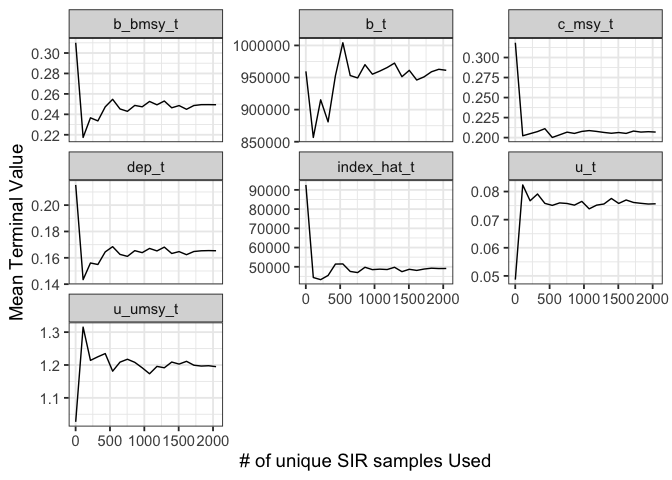
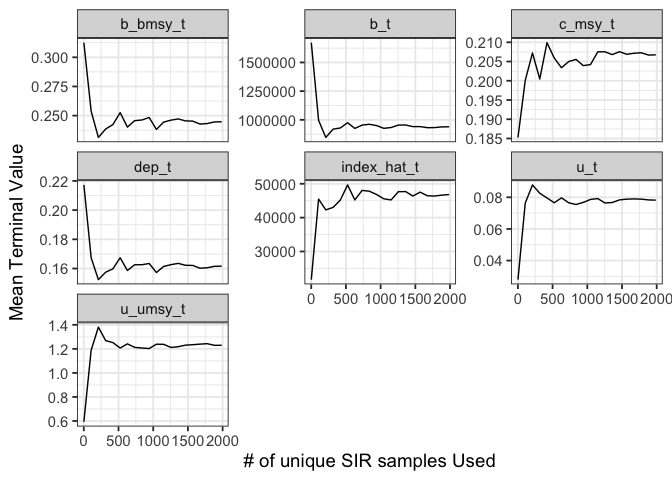
purging excess packages

diff --git a/docs/index.html b/docs/index.html
@@ -131,15 +131,10 @@
 <div class="section level1">
 <h1 id="example-use">Example Use<a class="anchor" aria-label="anchor" href="#example-use"></a>
 </h1>
-<p>First, load libraries. These are the core libraries needed to run <code>sraplus</code>, all of which should have been installed for you if you didn’t already have them when you installed <code>sraplus</code>.</p>
-<div class="sourceCode" id="cb4"><pre class="downlit sourceCode r">
-<code class="sourceCode R"><span class="kw"><a href="https://rdrr.io/r/base/library.html" class="external-link">library</a></span><span class="op">(</span><span class="va"><a href="https://ggplot2.tidyverse.org" class="external-link">ggplot2</a></span><span class="op">)</span>
-<span class="kw"><a href="https://rdrr.io/r/base/library.html" class="external-link">library</a></span><span class="op">(</span><span class="va"><a href="https://tidyr.tidyverse.org" class="external-link">tidyr</a></span><span class="op">)</span>
-<span class="kw"><a href="https://rdrr.io/r/base/library.html" class="external-link">library</a></span><span class="op">(</span><span class="va"><a href="https://dplyr.tidyverse.org" class="external-link">dplyr</a></span><span class="op">)</span>
-<span class="kw"><a href="https://rdrr.io/r/base/library.html" class="external-link">library</a></span><span class="op">(</span><span class="va"><a href="https://danovando.github.io/sraplus/" class="external-link">sraplus</a></span><span class="op">)</span>
-<span class="kw"><a href="https://rdrr.io/r/base/library.html" class="external-link">library</a></span><span class="op">(</span><span class="va">tmbstan</span><span class="op">)</span>
-<span class="fu"><a href="https://rdrr.io/r/base/Sys.setenv.html" class="external-link">Sys.unsetenv</a></span><span class="op">(</span><span class="st">"PKG_CXXFLAGS"</span><span class="op">)</span></code></pre></div>
 <p>Once you’ve successfully installed <code>sraplus</code> you can take for a test drive with these examples. We’ll now work through a couple examples, from simple to complex, of using <code>sraplus</code></p>
+<p>First, load <code>sraplus</code></p>
+<div class="sourceCode" id="cb4"><pre class="downlit sourceCode r">
+<code class="sourceCode R"><span class="kw"><a href="https://rdrr.io/r/base/library.html" class="external-link">library</a></span><span class="op">(</span><span class="va"><a href="https://danovando.github.io/sraplus/" class="external-link">sraplus</a></span><span class="op">)</span></code></pre></div>
 <div class="section level2">
 <h2 id="catch-only-sir-model">“Catch-only” SIR model<a class="anchor" aria-label="anchor" href="#catch-only-sir-model"></a>
 </h2>
@@ -202,23 +197,23 @@
 <span class="co">#&gt; # A tibble: 6 × 6</span>
 <span class="co">#&gt;    year variable           mean           sd       lower        upper</span>
 <span class="co">#&gt;   &lt;dbl&gt; &lt;chr&gt;             &lt;dbl&gt;        &lt;dbl&gt;       &lt;dbl&gt;        &lt;dbl&gt;</span>
-<span class="co">#&gt; 1  1963 b_div_bmsy        0.620       0.0887       0.505        0.747</span>
-<span class="co">#&gt; 2  1963 b           4675690.    3264646.     2174014.    10550101.   </span>
-<span class="co">#&gt; 3  1963 c_div_msy         0.304       0.107        0.107        0.441</span>
+<span class="co">#&gt; 1  1963 b_div_bmsy        0.622       0.0962       0.511        0.760</span>
+<span class="co">#&gt; 2  1963 b           5033112.    4241864.     2160439.    10905800.   </span>
+<span class="co">#&gt; 3  1963 c_div_msy         0.310       0.110        0.117        0.451</span>
 <span class="co">#&gt; 4  1963 crashed           0           0            0            0    </span>
-<span class="co">#&gt; 5  1963 depletion         0.408       0.0431       0.343        0.491</span>
-<span class="co">#&gt; 6  1963 index_hat_t  244423.     225457.       30486.      559945.</span></code></pre></div>
+<span class="co">#&gt; 5  1963 depletion         0.405       0.0371       0.347        0.462</span>
+<span class="co">#&gt; 6  1963 index_hat_t  256714.     314161.       26465.      724054.</span></code></pre></div>
 <p><code>results</code> is organized as a dataframe tracking different variables over years. <code>mean</code> is the mean value for a given variable, <code>sd</code> the estimated standard deviation around the mean, and <code>lower</code> and <code>upper</code> being the 10th and 90th percentiles of the estimates.</p>
 <p>You can access other variables from the raw <code>fit</code> object, though this is not standardized by engine and so requires knowing how to for example get outputs out of <code>stanfit</code> objects. In the <code>catch_only_fit</code>, the <code>fit</code> object is the output of the SIR algorithm.</p>
 <div class="sourceCode" id="cb10"><pre class="downlit sourceCode r">
 <code class="sourceCode R"><span class="fu"><a href="https://rdrr.io/r/utils/head.html" class="external-link">head</a></span><span class="op">(</span><span class="va">catch_only_fit</span><span class="op">$</span><span class="va">fit</span><span class="op">)</span>
 <span class="co">#&gt;   variable year draw   value draw_id</span>
-<span class="co">#&gt; 1      b_t 1963    1 5859097   53753</span>
-<span class="co">#&gt; 2      b_t 1964    1 4931092   53753</span>
-<span class="co">#&gt; 3      b_t 1965    1 5246869   53753</span>
-<span class="co">#&gt; 4      b_t 1966    1 5690475   53753</span>
-<span class="co">#&gt; 5      b_t 1967    1 5499910   53753</span>
-<span class="co">#&gt; 6      b_t 1968    1 5945906   53753</span></code></pre></div>
+<span class="co">#&gt; 1      b_t 1963    1 5653930   73661</span>
+<span class="co">#&gt; 2      b_t 1964    1 5840386   73661</span>
+<span class="co">#&gt; 3      b_t 1965    1 5774552   73661</span>
+<span class="co">#&gt; 4      b_t 1966    1 5702026   73661</span>
+<span class="co">#&gt; 5      b_t 1967    1 5320278   73661</span>
+<span class="co">#&gt; 6      b_t 1968    1 5385426   73661</span></code></pre></div>
 <p>From there, we can generate some standard plots of B/Bmsy (b_div_bmsy), Catch/MSY, U/Umsy, and depletion over time using <code>plot_sraplus</code>.</p>
 <div class="sourceCode" id="cb11"><pre class="downlit sourceCode r">
 <code class="sourceCode R"><span class="fu">sraplus</span><span class="fu">::</span><span class="fu"><a href="reference/plot_sraplus.html">plot_sraplus</a></span><span class="op">(</span>catch_only <span class="op">=</span> <span class="va">catch_only_fit</span>, years <span class="op">=</span> <span class="va">catch_only_driors</span><span class="op">$</span><span class="va">years</span><span class="op">)</span></code></pre></div>
@@ -280,7 +275,7 @@
 <span class="co">#&gt; [1] "fishlife matched supplied species"</span>
 <span class="co">#&gt; </span>
 <span class="co">#&gt; $distinct_sir_draws</span>
-<span class="co">#&gt; [1] 2044</span>
+<span class="co">#&gt; [1] 1987</span>
 <span class="co">#&gt; </span>
 <span class="co">#&gt; $sir_convergence_plot</span></code></pre></div>
 <p><img src="reference/figures/README-unnamed-chunk-10-1.png" width="100%"></p>
@@ -303,15 +298,14 @@
     init_u_umsy <span class="op">=</span> <span class="fl">1</span>
   <span class="op">)</span>
 
-<span class="va">sim</span><span class="op">$</span><span class="va">pop</span> <span class="op"><a href="reference/pipe.html">%&gt;%</a></span> 
-  <span class="fu"><a href="https://dplyr.tidyverse.org/reference/select.html" class="external-link">select</a></span><span class="op">(</span><span class="va">year</span>, <span class="va">depletion</span>,<span class="va">catch</span>, <span class="va">effort</span>,<span class="va">u</span><span class="op">)</span> <span class="op"><a href="reference/pipe.html">%&gt;%</a></span> 
-  <span class="fu"><a href="https://tidyr.tidyverse.org/reference/gather.html" class="external-link">gather</a></span><span class="op">(</span><span class="va">metric</span>, <span class="va">value</span>, <span class="op">-</span><span class="va">year</span><span class="op">)</span> <span class="op"><a href="reference/pipe.html">%&gt;%</a></span> 
-  <span class="fu"><a href="https://ggplot2.tidyverse.org/reference/ggplot.html" class="external-link">ggplot</a></span><span class="op">(</span><span class="fu"><a href="https://ggplot2.tidyverse.org/reference/aes.html" class="external-link">aes</a></span><span class="op">(</span><span class="va">year</span>, <span class="va">value</span><span class="op">)</span><span class="op">)</span> <span class="op">+</span> 
-  <span class="fu"><a href="https://ggplot2.tidyverse.org/reference/geom_point.html" class="external-link">geom_point</a></span><span class="op">(</span><span class="op">)</span> <span class="op">+</span> 
-  <span class="fu"><a href="https://ggplot2.tidyverse.org/reference/facet_wrap.html" class="external-link">facet_wrap</a></span><span class="op">(</span><span class="op">~</span><span class="va">metric</span>, scales <span class="op">=</span> <span class="st">"free_y"</span><span class="op">)</span> <span class="op">+</span> 
-  <span class="fu"><a href="https://ggplot2.tidyverse.org/reference/labs.html" class="external-link">labs</a></span><span class="op">(</span>y <span class="op">=</span> <span class="st">"Value"</span>, x <span class="op">=</span> <span class="st">"Year"</span><span class="op">)</span> <span class="op">+</span> 
-  <span class="fu">sraplus</span><span class="fu">::</span><span class="fu"><a href="reference/theme_sraplus.html">theme_sraplus</a></span><span class="op">(</span><span class="op">)</span></code></pre></div>
-<p><img src="reference/figures/README-sim-index-1-1.png" width="100%"></p>
+<span class="co"># sim$pop %&gt;% </span>
+<span class="co">#   dplyr::select(year, depletion,catch, effort,u) %&gt;% </span>
+<span class="co">#   gather(metric, value, -year) %&gt;% </span>
+<span class="co">#   ggplot(aes(year, value)) + </span>
+<span class="co">#   geom_point() + </span>
+<span class="co">#   facet_wrap(~metric, scales = "free_y") + </span>
+<span class="co">#   labs(y = "Value", x = "Year") + </span>
+<span class="co">#   sraplus::theme_sraplus()</span></code></pre></div>
 <p>Now, let’s pretend that we have a perfect index of abundance, which is just <code>biomass * 1e-3</code>. We pass indices to <code>srplus</code> inside <code>format_driors</code> as <code>index</code> and <code>index_years</code>, where <code>index_years</code> is a vector of the same length of <code>index</code> specifying which years index data are available. Well now use Template Model Builder (TMB) to estimate stock status based on this index of abundance. We’ll add in some priors on the growth rate and the shape of the Pella-Tomlinson model (1.01 roughly corresponds to a Fox model, where Bmsy/K ~= 0.4). Note that we now set <code>engine = "tmb"</code> to fit the model via maximum likelihood using TMB.</p>
 <div class="sourceCode" id="cb16"><pre class="downlit sourceCode r">
 <code class="sourceCode R"><span class="va">index_driors</span> <span class="op">&lt;-</span> <span class="fu"><a href="reference/format_driors.html">format_driors</a></span><span class="op">(</span>
@@ -357,15 +351,14 @@
     init_u_umsy <span class="op">=</span> <span class="fl">0.75</span>
   <span class="op">)</span>
 
-<span class="va">sim</span><span class="op">$</span><span class="va">pop</span> <span class="op"><a href="reference/pipe.html">%&gt;%</a></span> 
-  <span class="fu"><a href="https://dplyr.tidyverse.org/reference/select.html" class="external-link">select</a></span><span class="op">(</span><span class="va">year</span>, <span class="va">depletion</span>,<span class="va">catch</span>, <span class="va">effort</span>,<span class="va">u</span><span class="op">)</span> <span class="op"><a href="reference/pipe.html">%&gt;%</a></span> 
-  <span class="fu"><a href="https://tidyr.tidyverse.org/reference/gather.html" class="external-link">gather</a></span><span class="op">(</span><span class="va">metric</span>, <span class="va">value</span>, <span class="op">-</span><span class="va">year</span><span class="op">)</span> <span class="op"><a href="reference/pipe.html">%&gt;%</a></span> 
-  <span class="fu"><a href="https://ggplot2.tidyverse.org/reference/ggplot.html" class="external-link">ggplot</a></span><span class="op">(</span><span class="fu"><a href="https://ggplot2.tidyverse.org/reference/aes.html" class="external-link">aes</a></span><span class="op">(</span><span class="va">year</span>, <span class="va">value</span><span class="op">)</span><span class="op">)</span> <span class="op">+</span> 
-  <span class="fu"><a href="https://ggplot2.tidyverse.org/reference/geom_point.html" class="external-link">geom_point</a></span><span class="op">(</span><span class="op">)</span> <span class="op">+</span> 
-  <span class="fu"><a href="https://ggplot2.tidyverse.org/reference/facet_wrap.html" class="external-link">facet_wrap</a></span><span class="op">(</span><span class="op">~</span><span class="va">metric</span>, scales <span class="op">=</span> <span class="st">"free_y"</span><span class="op">)</span> <span class="op">+</span> 
-  <span class="fu"><a href="https://ggplot2.tidyverse.org/reference/labs.html" class="external-link">labs</a></span><span class="op">(</span>y <span class="op">=</span> <span class="st">"Value"</span>, x <span class="op">=</span> <span class="st">"Year"</span><span class="op">)</span> <span class="op">+</span> 
-  <span class="fu">sraplus</span><span class="fu">::</span><span class="fu"><a href="reference/theme_sraplus.html">theme_sraplus</a></span><span class="op">(</span><span class="op">)</span></code></pre></div>
-<p><img src="reference/figures/README-cpue-fit-1-1.png" width="100%"></p>
+<span class="co"># sim$pop %&gt;% </span>
+<span class="co">#   select(year, depletion,catch, effort,u) %&gt;% </span>
+<span class="co">#   gather(metric, value, -year) %&gt;% </span>
+<span class="co">#   ggplot(aes(year, value)) + </span>
+<span class="co">#   geom_point() + </span>
+<span class="co">#   facet_wrap(~metric, scales = "free_y") + </span>
+<span class="co">#   labs(y = "Value", x = "Year") + </span>
+<span class="co">#   sraplus::theme_sraplus()</span></code></pre></div>
 <p>Now suppose we no longer have a perfect index of abundance, but instead data on the catch and effort (CPUE!). But, there are a few problems with these CPUE data. First, we know from the simulation that q is increasing over time, so simply treating Catch/Effort as an index of abundance will be biased (since a unit of effort in the past is not the same as a unit of effort in the present). Second, we need to account for diminishing returns from increasing amounts of effort, and in-season losses to natural mortality. <code>sraplus</code> provides some support to these problems. <code>sraplus</code> will estimate a q. If desired it allows the user to either specify an assumed slope in catchability (where <em>q</em><sub><em>t</em></sub> = <em>q</em><sub><em>t</em> − 1</sub> × *q<strong>s</strong>l<strong>o</strong>p**e*), or to attempt to estimate <code>qslope</code> directly. Second, given values of q and qslope (and estimates of natural mortality either supplied by the user or drawn from <code>FishLife</code>), <code>sraplus</code> uses the Baranov equation to translate effort into an effective fishing mortality rate.</p>
 <p><strong>One important note</strong>. By default, <code>sraplus</code> includes estimation of process error. When running a simplified CPUE like this, the model can’t really handle estimating both process error and a q_slope_prior (since the persistent trend in the CPUE values caused by the qslope can be soaked into the process error or the qslope). So, you need to provide a VERY imformative prior on the q_slope_prior parameter if you’re going to try and estimate (i.e. fix the q_slope_prior parameter), or turn off process error (inside <code>fit_sraplus</code> set <code>estimate_proc_error = FALSE</code>) (the recommended option in this case).</p>
 <p>By now the order of operations should be pretty familiar: pass things to driors, then driors to fit_sraplus. In this case, instead of passing an index, we pass effort data, and effort years.</p>
@@ -484,8 +477,7 @@
 <p><img src="reference/figures/README-unnamed-chunk-18-1.png" width="100%"></p>
 <p>Or produce a summary table that can be saved to a .csv file.</p>
 <div class="sourceCode" id="cb27"><pre class="downlit sourceCode r">
-<code class="sourceCode R"><span class="fu"><a href="reference/summarize_sralpus.html">summarize_sralpus</a></span><span class="op">(</span><span class="va">cpue_sar_proc_fit</span>, output <span class="op">=</span> <span class="st">"table"</span><span class="op">)</span> <span class="op"><a href="reference/pipe.html">%&gt;%</a></span> 
-  <span class="fu">knitr</span><span class="fu">::</span><span class="fu"><a href="https://rdrr.io/pkg/knitr/man/kable.html" class="external-link">kable</a></span><span class="op">(</span>digits <span class="op">=</span> <span class="fl">2</span><span class="op">)</span></code></pre></div>
+<code class="sourceCode R"><span class="fu">knitr</span><span class="fu">::</span><span class="fu"><a href="https://rdrr.io/pkg/knitr/man/kable.html" class="external-link">kable</a></span><span class="op">(</span><span class="fu"><a href="reference/summarize_sralpus.html">summarize_sralpus</a></span><span class="op">(</span><span class="va">cpue_sar_proc_fit</span>, output <span class="op">=</span> <span class="st">"table"</span><span class="op">)</span>, digits <span class="op">=</span> <span class="fl">2</span><span class="op">)</span> </code></pre></div>
 <table class="table">
 <thead><tr class="header">
 <th align="left">variable</th>

diff --git a/README.md b/README.md
@@ -82,22 +82,15 @@ remotes::install_github("danovando/sraplus")
 
 # Example Use
 
-First, load libraries. These are the core libraries needed to run
-`sraplus`, all of which should have been installed for you if you didn’t
-already have them when you installed `sraplus`.
-
-``` r
-library(ggplot2)
-library(tidyr)
-library(dplyr)
-library(sraplus)
-library(tmbstan)
-Sys.unsetenv("PKG_CXXFLAGS")
-```
-
 Once you’ve successfully installed `sraplus` you can take for a test
 drive with these examples. We’ll now work through a couple examples,
 from simple to complex, of using `sraplus`
+
+First, load `sraplus`
+
+``` r
+library(sraplus)
+```
 
 ## “Catch-only” SIR model
 
@@ -207,12 +200,12 @@ head(catch_only_fit$results)
 #> # A tibble: 6 × 6
 #>    year variable           mean           sd       lower        upper
 #>   <dbl> <chr>             <dbl>        <dbl>       <dbl>        <dbl>
-#> 1  1963 b_div_bmsy        0.620       0.0887       0.505        0.747
-#> 2  1963 b           4675690.    3264646.     2174014.    10550101.   
-#> 3  1963 c_div_msy         0.304       0.107        0.107        0.441
+#> 1  1963 b_div_bmsy        0.622       0.0962       0.511        0.760
+#> 2  1963 b           5033112.    4241864.     2160439.    10905800.   
+#> 3  1963 c_div_msy         0.310       0.110        0.117        0.451
 #> 4  1963 crashed           0           0            0            0    
-#> 5  1963 depletion         0.408       0.0431       0.343        0.491
-#> 6  1963 index_hat_t  244423.     225457.       30486.      559945.
+#> 5  1963 depletion         0.405       0.0371       0.347        0.462
+#> 6  1963 index_hat_t  256714.     314161.       26465.      724054.
 ```
 
 `results` is organized as a dataframe tracking different variables over
@@ -228,12 +221,12 @@ object is the output of the SIR algorithm.
 ``` r
 head(catch_only_fit$fit)
 #>   variable year draw   value draw_id
-#> 1      b_t 1963    1 5859097   53753
-#> 2      b_t 1964    1 4931092   53753
-#> 3      b_t 1965    1 5246869   53753
-#> 4      b_t 1966    1 5690475   53753
-#> 5      b_t 1967    1 5499910   53753
-#> 6      b_t 1968    1 5945906   53753
+#> 1      b_t 1963    1 5653930   73661
+#> 2      b_t 1964    1 5840386   73661
+#> 3      b_t 1965    1 5774552   73661
+#> 4      b_t 1966    1 5702026   73661
+#> 5      b_t 1967    1 5320278   73661
+#> 6      b_t 1968    1 5385426   73661
 ```
 
 From there, we can generate some standard plots of B/Bmsy
@@ -333,7 +326,7 @@ sraplus::diagnose_sraplus(fit = fmi_sar_fit, driors = fmi_sar_driors )
 #> [1] "fishlife matched supplied species"
 #> 
 #> $distinct_sir_draws
-#> [1] 2044
+#> [1] 1987
 #> 
 #> $sir_convergence_plot
 ```
@@ -362,17 +355,15 @@ sim <-
     init_u_umsy = 1
   )
 
-sim$pop %>% 
-  select(year, depletion,catch, effort,u) %>% 
-  gather(metric, value, -year) %>% 
-  ggplot(aes(year, value)) + 
-  geom_point() + 
-  facet_wrap(~metric, scales = "free_y") + 
-  labs(y = "Value", x = "Year") + 
-  sraplus::theme_sraplus()
+# sim$pop %>% 
+#   dplyr::select(year, depletion,catch, effort,u) %>% 
+#   gather(metric, value, -year) %>% 
+#   ggplot(aes(year, value)) + 
+#   geom_point() + 
+#   facet_wrap(~metric, scales = "free_y") + 
+#   labs(y = "Value", x = "Year") + 
+#   sraplus::theme_sraplus()
 ```
-
-<img src="man/figures/README-sim-index-1-1.png" width="100%" />
 
 Now, let’s pretend that we have a perfect index of abundance, which is
 just `biomass * 1e-3`. We pass indices to `srplus` inside
@@ -438,17 +429,15 @@ sim <-
     init_u_umsy = 0.75
   )
 
-sim$pop %>% 
-  select(year, depletion,catch, effort,u) %>% 
-  gather(metric, value, -year) %>% 
-  ggplot(aes(year, value)) + 
-  geom_point() + 
-  facet_wrap(~metric, scales = "free_y") + 
-  labs(y = "Value", x = "Year") + 
-  sraplus::theme_sraplus()
+# sim$pop %>% 
+#   select(year, depletion,catch, effort,u) %>% 
+#   gather(metric, value, -year) %>% 
+#   ggplot(aes(year, value)) + 
+#   geom_point() + 
+#   facet_wrap(~metric, scales = "free_y") + 
+#   labs(y = "Value", x = "Year") + 
+#   sraplus::theme_sraplus()
 ```
-
-<img src="man/figures/README-cpue-fit-1-1.png" width="100%" />
 
 Now suppose we no longer have a perfect index of abundance, but instead
 data on the catch and effort (CPUE!). But, there are a few problems with
@@ -635,8 +624,7 @@ summarize_sralpus(cpue_sar_proc_fit, output = "plot")
 Or produce a summary table that can be saved to a .csv file.
 
 ``` r
-summarize_sralpus(cpue_sar_proc_fit, output = "table") %>% 
-  knitr::kable(digits = 2)
+knitr::kable(summarize_sralpus(cpue_sar_proc_fit, output = "table"), digits = 2) 
 ```
 
 | variable          |   mean |    sd |  lower |  upper | year |
